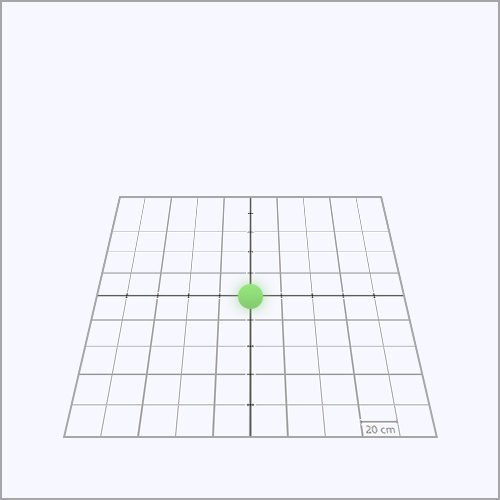
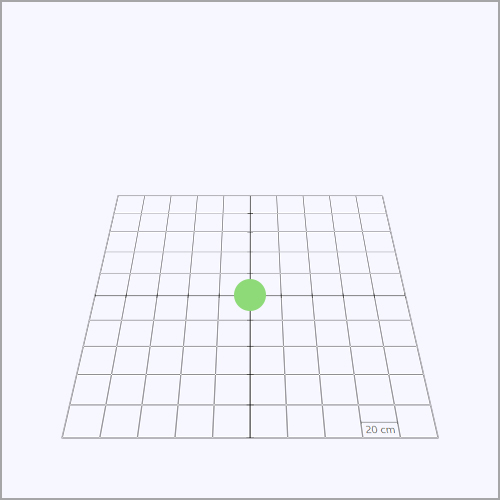
Nouvelle méthode de calibrage : + précise et + correcte !

diff --git a/trackesiea/Client_Test/Client_UI.cpp b/trackesiea/Client_Test/Client_UI.cpp
@@ -32,6 +32,7 @@ void Client_UI::initialize()
 	cv::resize(cv::imread("images/calib_image1.jpg", cv::IMREAD_COLOR), calibration_image[0], Size(RESX*0.4, RESX*0.4));
 	cv::resize(cv::imread("images/calib_image2.jpg", cv::IMREAD_COLOR), calibration_image[1], Size(RESX*0.4, RESX*0.4));
 	cv::resize(cv::imread("images/calib_image3.jpg", cv::IMREAD_COLOR), calibration_image[2], Size(RESX*0.4, RESX*0.4));
+	cv::resize(cv::imread("images/calib_image4.jpg", cv::IMREAD_COLOR), calibration_image[3], Size(RESX*0.4, RESX*0.4));
 }
 
 void Client_UI::run(bool & exit, int input)
@@ -139,20 +140,33 @@ void Client_UI::tracking_tab()
 			break;
 		case 1 :
 			cvui::image(frame, RESX*0.3, RESY*0.35, calibration_image[1]);
-			cvui::printf(frame, RESX*0.7375, RESY*0.36, TEXT_SCALE * 0.5, 0xa6a6a8,                   "Maintenant, deplacez");
-			cvui::printf(frame, RESX*0.7375, RESY*0.36 + TEXT_SCALE * 30, TEXT_SCALE * 0.5, 0xa6a6a8, "la balle vers l'avant");
-			cvui::printf(frame, RESX*0.7375, RESY*0.36 + TEXT_SCALE * 60, TEXT_SCALE * 0.5, 0xa6a6a8, "de la zone, puis cliquez");
-			cvui::printf(frame, RESX*0.7375, RESY*0.36 + TEXT_SCALE * 90, TEXT_SCALE * 0.5, 0xa6a6a8, "sur Calibrer l'axe Z.");
-			if (cvui::button(frame, RESX*0.7375, RESY*0.55, RESX*0.1875, RESY*0.05, "Calibrer l'axe Z"))
+			cvui::printf(frame, RESX*0.7375, RESY*0.36, TEXT_SCALE * 0.5, 0xa6a6a8,                   "Maintenant, placez");
+			cvui::printf(frame, RESX*0.7375, RESY*0.36 + TEXT_SCALE * 30, TEXT_SCALE * 0.5, 0xa6a6a8, "la balle a droite");
+			cvui::printf(frame, RESX*0.7375, RESY*0.36 + TEXT_SCALE * 60, TEXT_SCALE * 0.5, 0xa6a6a8, "du centre, puis cliquez");
+			cvui::printf(frame, RESX*0.7375, RESY*0.36 + TEXT_SCALE * 90, TEXT_SCALE * 0.5, 0xa6a6a8, "sur Calibrer l'axe X.");
+			if (cvui::button(frame, RESX*0.7375, RESY*0.55, RESX*0.1875, RESY*0.05, "Calibrer l'axe X"))
 			{
-				tracker->set_world_zaxis();
-				tracker->calibrate_camera_pose();
+				tracker->set_world_xaxis();
 				calibration_step = 2;
 			}
 			if (cvui::button(frame, RESX*0.78, RESY*0.92, RESX*0.1875, RESY*0.05, "Annuler")) { calibration_mode = false; }
 			break;
 		case 2:
 			cvui::image(frame, RESX*0.3, RESY*0.35, calibration_image[2]);
+			cvui::printf(frame, RESX*0.7375, RESY*0.36, TEXT_SCALE * 0.5, 0xa6a6a8, "Ensuite, placez");
+			cvui::printf(frame, RESX*0.7375, RESY*0.36 + TEXT_SCALE * 30, TEXT_SCALE * 0.5, 0xa6a6a8, "la balle a l'avant");
+			cvui::printf(frame, RESX*0.7375, RESY*0.36 + TEXT_SCALE * 60, TEXT_SCALE * 0.5, 0xa6a6a8, "du centre, puis cliquez");
+			cvui::printf(frame, RESX*0.7375, RESY*0.36 + TEXT_SCALE * 90, TEXT_SCALE * 0.5, 0xa6a6a8, "sur Calibrer l'axe Z.");
+			if (cvui::button(frame, RESX*0.7375, RESY*0.55, RESX*0.1875, RESY*0.05, "Calibrer l'axe Z"))
+			{
+				tracker->set_world_zaxis();
+				tracker->calibrate_camera_pose();
+				calibration_step = 3;
+			}
+			if (cvui::button(frame, RESX*0.78, RESY*0.92, RESX*0.1875, RESY*0.05, "Annuler")) { calibration_mode = false; }
+			break;
+		case 3:
+			cvui::image(frame, RESX*0.3, RESY*0.35, calibration_image[3]);
 			cvui::printf(frame, RESX*0.7375, RESY*0.36, TEXT_SCALE * 0.5, 0xa6a6a8,                   "Calibration terminee !");
 			cvui::printf(frame, RESX*0.7375, RESY*0.36 + TEXT_SCALE * 30, TEXT_SCALE * 0.5, 0xa6a6a8, "Vous pouvez maintenant");
 			cvui::printf(frame, RESX*0.7375, RESY*0.36 + TEXT_SCALE * 60, TEXT_SCALE * 0.5, 0xa6a6a8, "cliquer sur le bouton");

diff --git a/trackesiea/Client_Test/client_test.cpp b/trackesiea/Client_Test/client_test.cpp
@@ -22,9 +22,14 @@ Client_UI client_ui;
 Tracker tracker;
 void initialization()
 {
+	cout << "\nInitialisation du tracker..." << endl;
 	tracker.init_tracker(0,false);
+	cout << "Initialisation du tracker avec succes !\n" << endl;
+
+	cout << "Initialisation de l'interface..." << endl;
 	client_ui.initialize();
 	client_ui.tracker = &tracker;
+	cout << "Succes !" << endl;
 }
 
 void runTracker()
@@ -41,7 +46,7 @@ bool initSocket()
 	
 	WORD version = MAKEWORD(2, 2);
 	int wsOk = WSAStartup(version, &ws_data);
-	if (wsOk != 0) { cout << "Can't start Winsock! " << wsOk; return false; }
+	if (wsOk != 0) { cout << "Impossible de demarrer Winsock! " << wsOk; return false; }
 
 	server.sin_family = AF_INET; // AF_INET = IPv4 addresses
 	server.sin_port = htons(1010); // Little to big endian conversion
@@ -49,6 +54,7 @@ bool initSocket()
 
 	// Socket creation, note that the socket type is datagram
 	out = socket(AF_INET, SOCK_DGRAM, 0);
+	cout << "Creation du socket reussie !" << endl;
 	return true;
 }
 
@@ -78,10 +84,11 @@ int main(int argc, char** argv)
 	int input;
 	initialization();
 	initSocket();
+	cout << "Initialisation termine" << endl;
 
 	while (!exit )
 	{
-		input = waitKey(1); if (input == 'q') { exit = true; }
+		input = waitKey(1); //if (input == 'q') { exit = true; }
 		runTracker();
 		client_ui.run(exit,input);
 		runSocket();

diff --git a/trackesiea/Client_Test/Client_UI.h b/trackesiea/Client_Test/Client_UI.h
@@ -37,7 +37,7 @@ private:
 	Mat windowGrid;
 	bool calibration_mode;
 	int calibration_step;
-	Mat calibration_image[3];
+	Mat calibration_image[4];
 
 	void camera_tab();
 	Mat windowVideo;
